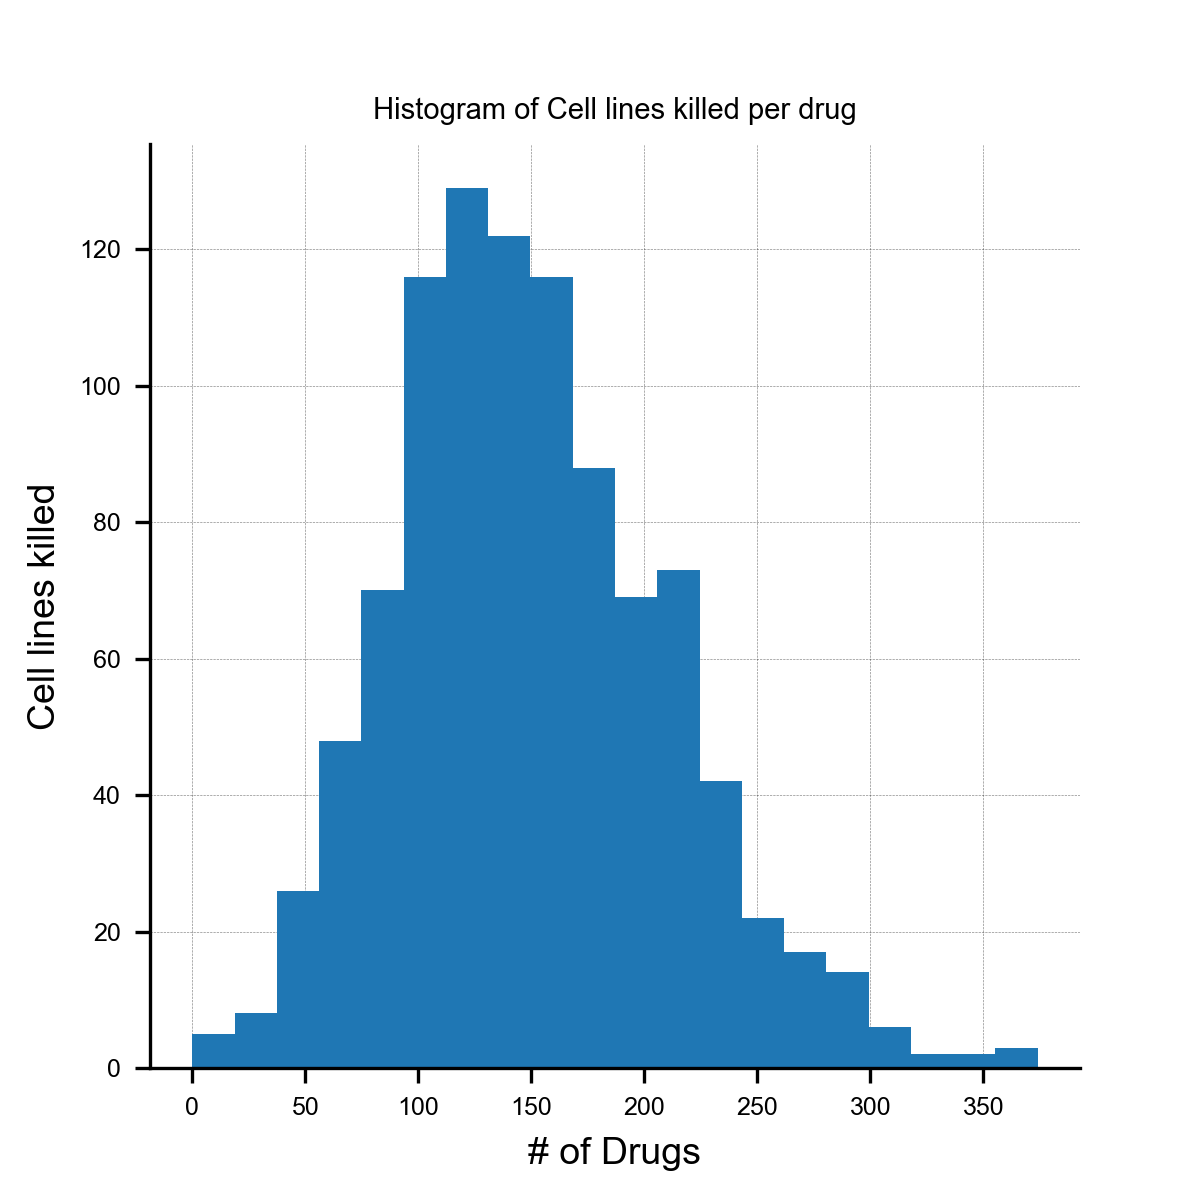
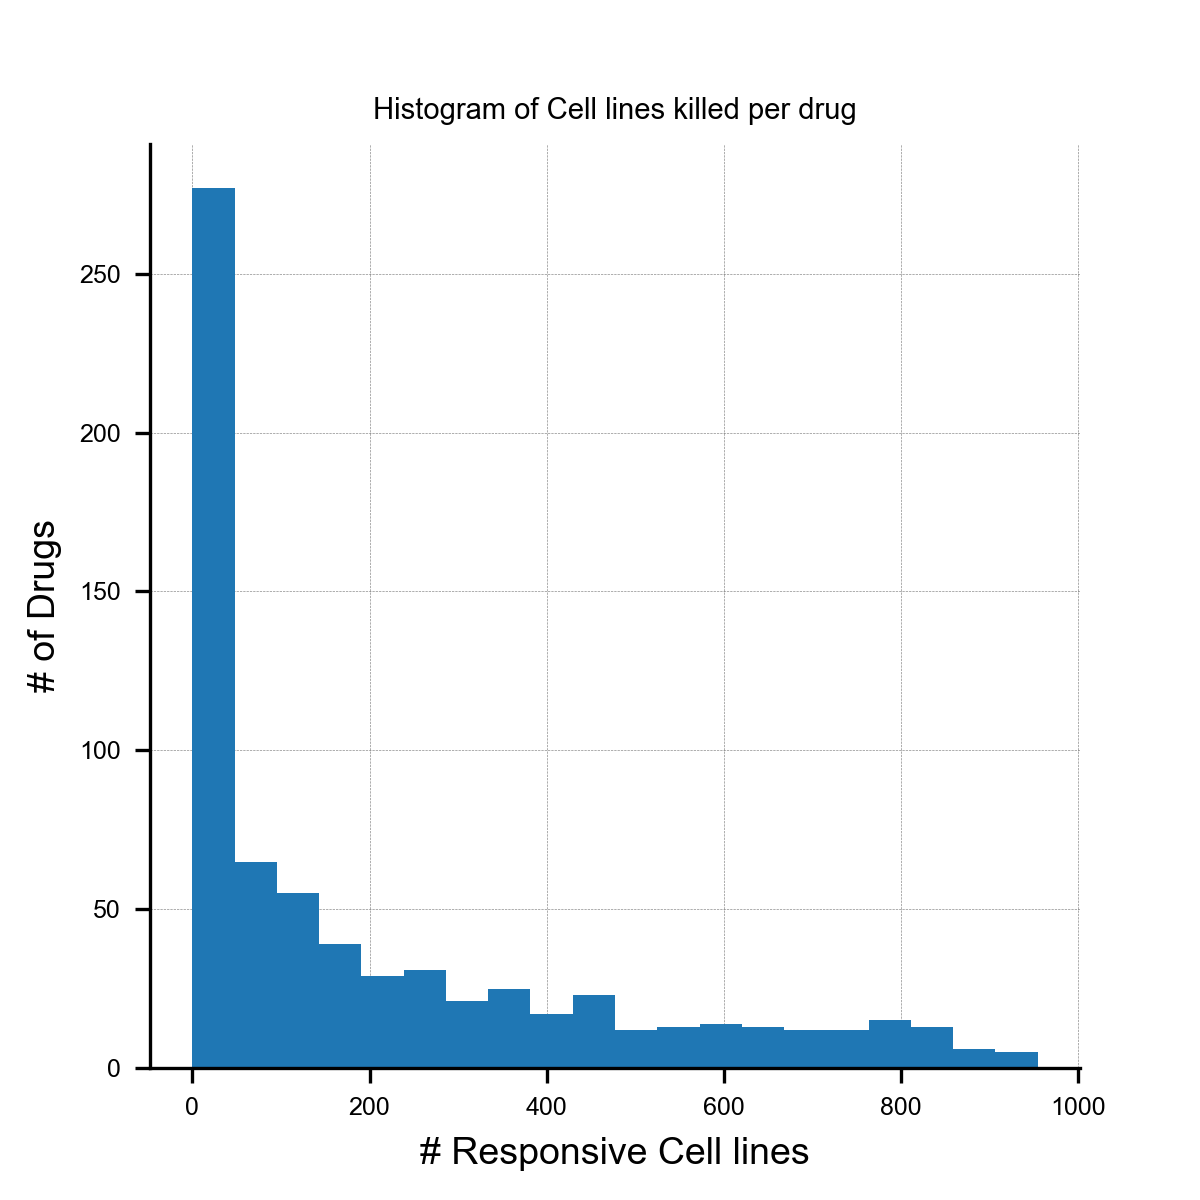
Corrected the histogram of cell lines responsive to drugd

diff --git a/src/drugResponse.py b/src/drugResponse.py
@@ -24,12 +24,12 @@ if __name__ == "__main__":
     # plt.savefig('../images/numOfCapableDrugsPerCellDeathThresh.png')´
 
     drugRes:pd.DataFrame = drugRes.binrise(0,False)
-    sumCellDrugs = drugRes.sum(axis=0) # We get the sum of all drugs that kill each cell lines (col)
+    sumCellDrugs = drugRes.sum(axis=1) # We get the sum of all cell lines that are killed by a drug (col)
     print(sumCellDrugs)
     fig, ax = plt.subplots(1)
     plt.hist(sumCellDrugs.reset_index(drop=True), 20)
-    ax.set_xlabel('# of Drugs')
-    ax.set_ylabel('Cell lines killed')
+    ax.set_ylabel('# of Drugs')
+    ax.set_xlabel('# Responsive Cell lines')
     ax.set_title("Histogram of Cell lines killed per drug")
 
 
